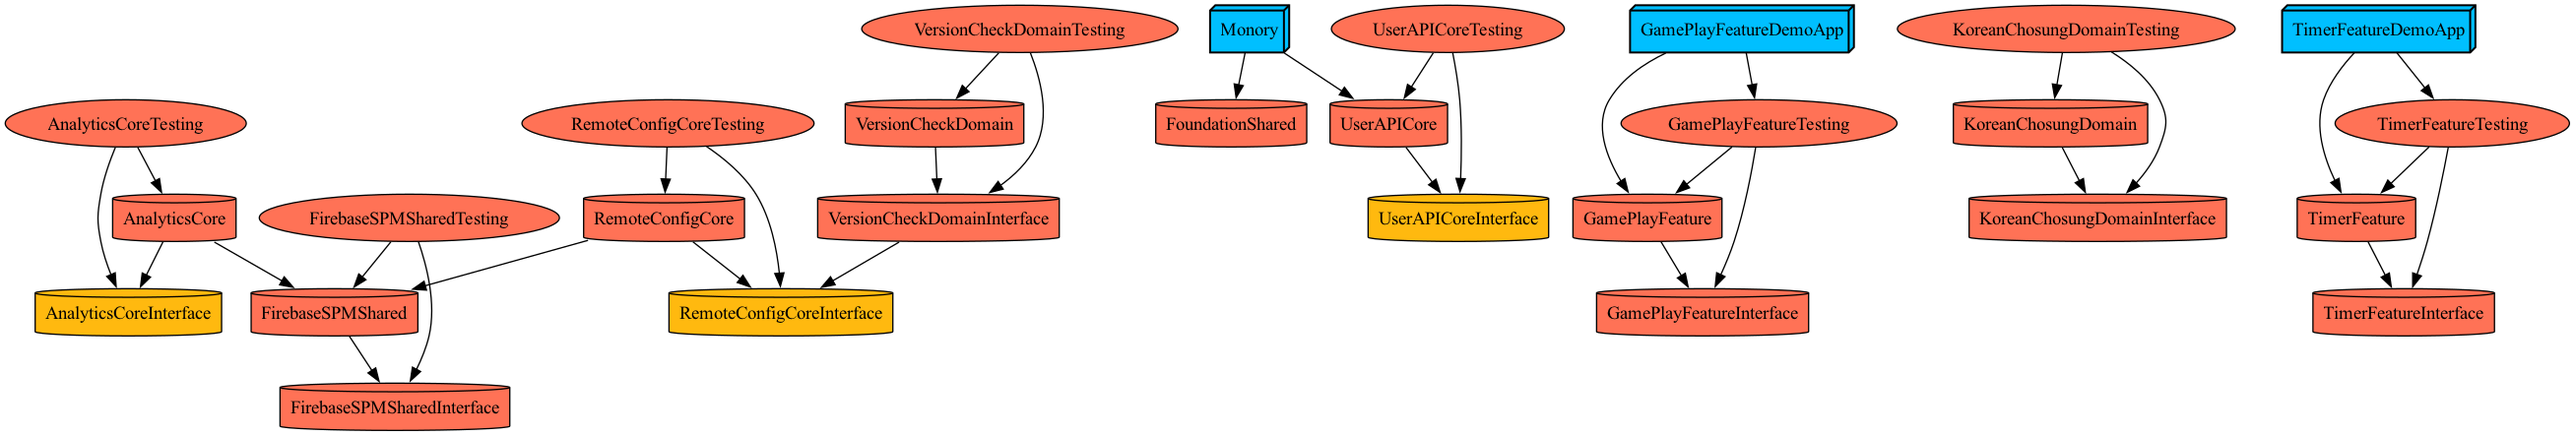
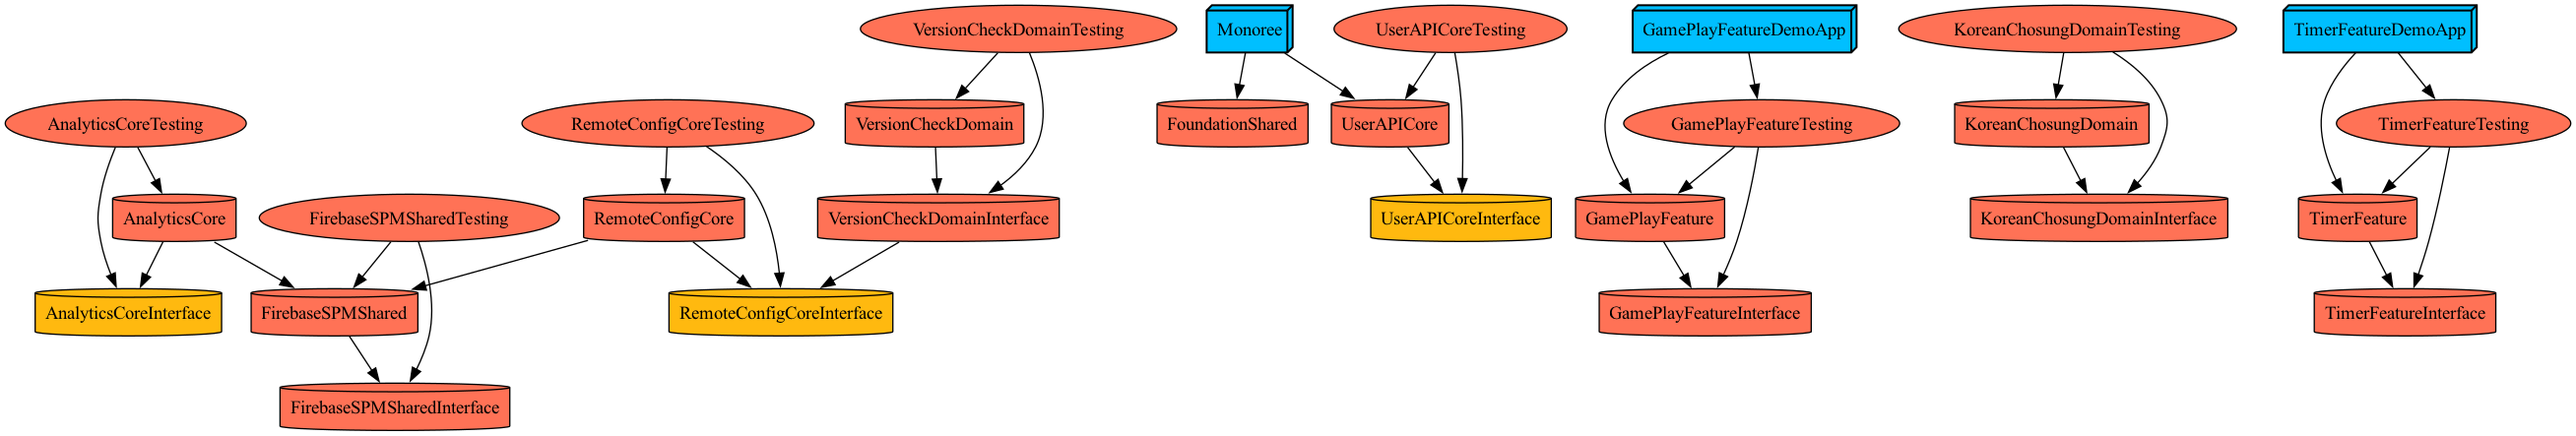
[#44] 하나만 실행하게 의존성 관리 개선

diff --git a/Projects/Application/Monoree/Project.swift b/Projects/Application/Monoree/Project.swift
@@ -1,0 +1,57 @@
+//
+//  Project.swift
+//  Config
+//
+//  Created by 박창규 on 11/28/24.
+//
+
+import ProjectDescription
+import ProjectDescriptionHelpers
+
+let appName = "Monoree"
+let project = Project(
+    name: appName,
+    targets: [
+        .target(
+            name: appName,
+            destinations: .iOS,
+            product: .app,
+            bundleId: "io.tuist.\(appName)",
+            deploymentTargets: .appVersion,
+            infoPlist: .extendingDefault(
+                with: [
+                    "UILaunchStoryboardName": "LaunchScreen",
+                    "UISupportedInterfaceOrientations": [
+                        "UIInterfaceOrientationPortrait"
+                    ],
+                    "UILaunchScreen": [
+                        "UIColorName": "",
+                        "UIImageName": "",
+                    ],
+                ]
+            ),
+            sources: ["Sources/**"],
+            resources: ["Resources/**"],
+            dependencies: [
+                // Core
+                .core(target: .UserAPICore, type: .implementation),
+                // Domain
+                .domain(target: .KoreanChosungDomain, type: .implementation),
+                .domain(target: .VersionCheckDomain, type: .implementation),
+                // Feature
+            ]
+        ),
+        .target(
+            name: "\(appName)Tests",
+            destinations: .iOS,
+            product: .unitTests,
+            bundleId: "io.tuist.\(appName)Tests",
+            deploymentTargets: .appVersion,
+            infoPlist: .default,
+            sources: ["Tests/**"],
+            dependencies: [
+                .target(name: appName)
+            ]
+        ),
+    ]
+)
